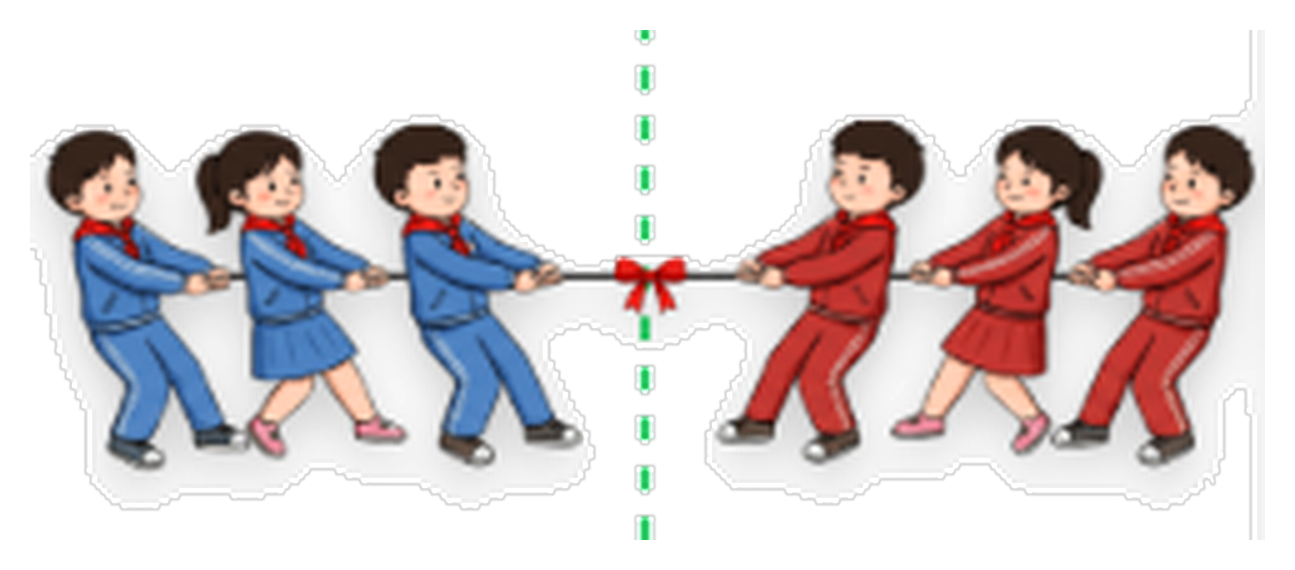
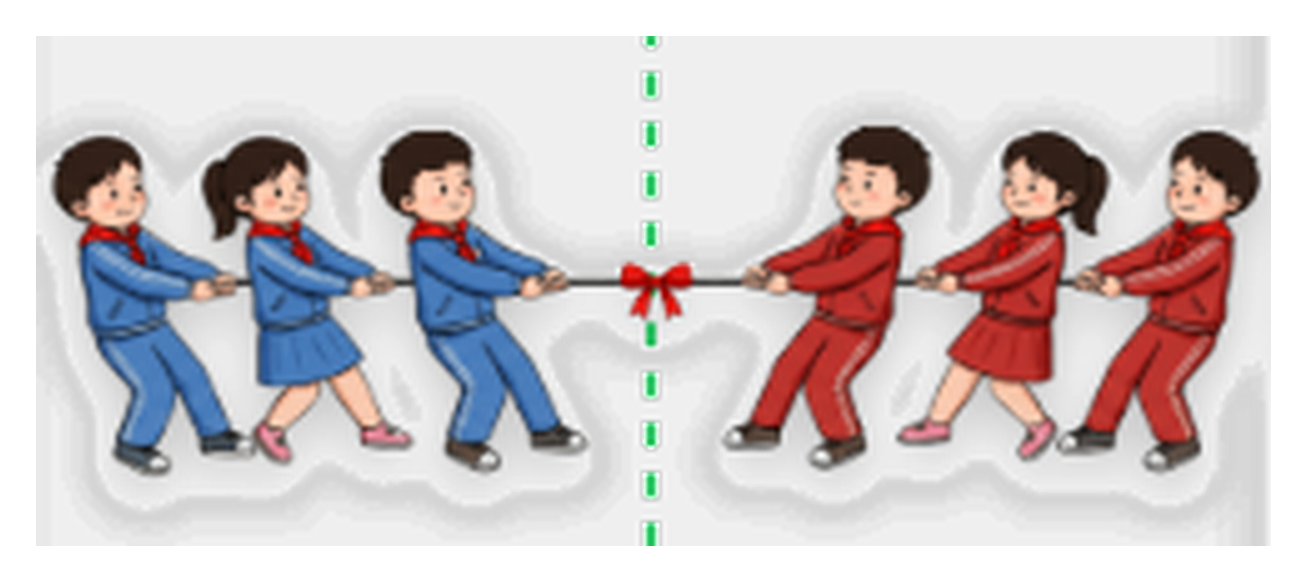
Add files via upload

diff --git a/index.html b/index.html
@@ -3,7 +3,7 @@
 <head>
   <meta charset="utf-8">
   <meta name="viewport" content="width=device-width,initial-scale=1">
-  <title>Lớp học tương tác Toán & Tin V15</title>
+  <title>Lớp học tương tác Toán & Tin V16</title>
   <script src="https://cdn.jsdelivr.net/npm/xlsx@0.18.5/dist/xlsx.full.min.js"></script>
   <script src="https://cdn.jsdelivr.net/npm/three@0.152.2/build/three.min.js"></script>
   <script>window.MathJax={loader:{load:['[tex]/ams']},tex:{inlineMath:[['$','$'],['\\(','\\)']],displayMath:[['$$','$$'],['\\[','\\]']],processEscapes:true,packages:{'[+]':['ams']}},svg:{fontCache:'global'}};</script>
@@ -400,6 +400,31 @@
     @media(max-width:1500px){.wrap{padding:10px}.central-question-body{grid-template-columns:minmax(330px,.95fr) minmax(0,1.55fr)}.central-media{min-height:250px;max-height:340px}.central-media img{max-height:315px}.central-q-copy{min-height:250px}.central-q-text{font-size:clamp(39px,3vw,65px)}.tv-game-grid{grid-template-columns:minmax(330px,1fr) minmax(300px,.68fr) minmax(330px,1fr)}.team-answer-grid .answer{min-height:112px;font-size:clamp(22px,1.5vw,32px)}}
     @media(max-width:1150px){.random-stage{grid-template-columns:1fr}.central-question-body{grid-template-columns:1fr}.central-media{min-height:220px;max-height:none}.tv-game-grid{grid-template-columns:1fr}.team-answer-panel{min-height:auto}.tv-arena,.tv-arena #gameCanvas{min-height:300px;max-height:none}.wheel-presentation #random .random-stage{grid-template-columns:1fr}.wheel-presentation .call-panel{display:none}}
 
+
+
+    /* ===================== V16: TV + ROUND SCORING + QUESTION LIMIT ===================== */
+    body{font-size:17px}
+    .brand b{font-size:27px}.brand small{font-size:14px}.tab,.btn{font-size:16px}.pill{font-size:14px}
+    label{font-size:15px}.input{font-size:16px}.panel-head h3{font-size:23px!important}.panel-hint{font-size:14px}
+    .stat span{font-size:14px}.stat b{font-size:31px}.selected-student{font-size:30px}.score-big{font-size:33px}.scorebook-name{font-size:17px}.scorebook-meta{font-size:13px}
+    .random-stage{grid-template-columns:minmax(0,1fr) 540px}.call-panel{font-size:15px}.quick-score{font-size:15px;padding:10px 5px}
+    .round-score-panel{border-radius:19px;padding:13px;background:linear-gradient(180deg,rgba(21,61,96,.94),rgba(8,31,56,.96));border:1px solid rgba(103,231,255,.24);box-shadow:inset 0 0 0 1px rgba(255,255,255,.025)}
+    .round-score-head{display:flex;align-items:center;justify-content:space-between;gap:8px;margin-bottom:6px}.round-score-head h3{margin:0;font-size:21px}.round-score-help{font-size:13px;color:#c7d9eb;margin-bottom:9px;line-height:1.35}
+    .round-call-list{display:grid;gap:8px;max-height:260px;overflow:auto;padding-right:2px}.round-call-row{display:grid;grid-template-columns:minmax(0,1fr) 84px 62px;gap:7px;align-items:center;padding:9px;border-radius:14px;background:rgba(4,21,40,.75);border:1px solid rgba(255,255,255,.08);transition:.18s}.round-call-row.active{border-color:rgba(255,217,95,.62);box-shadow:0 0 0 2px rgba(255,217,95,.08)}
+    .round-call-name{font-weight:950;font-size:16px;line-height:1.15}.round-call-meta{font-size:12px;color:#bcd0e6;margin-top:3px}.round-call-row .round-score-input{width:100%;padding:9px 6px;text-align:center;border-radius:11px;border:1px solid rgba(255,255,255,.13);background:#071a31;color:#fff;font-size:18px;font-weight:950}.round-call-row .btn{padding:9px 7px;font-size:12px}.round-call-empty{padding:10px;color:#a9bdd3;text-align:center;font-size:13px}
+    .round-call-actions{display:flex;gap:5px;margin-top:5px}.round-call-actions .mini-link{border:0;background:transparent;color:#70e8ff;padding:0;font-weight:900;font-size:12px;cursor:pointer}
+    .game-config-grid{grid-template-columns:repeat(9,minmax(0,1fr))}.cfg-count{grid-column:span 1}.config-hint{font-size:11px;color:#b9cce1;margin-top:4px;line-height:1.25}
+    .game-config-head h2{font-size:29px}.game-config-head .muted{font-size:15px}.game-config-grid label{font-size:14px}.game-config-grid .input{font-size:15px;padding:12px}
+    .central-question-head h2{font-size:32px}.central-q-label{font-size:15px}.central-q-text{font-size:clamp(50px,3.7vw,82px);line-height:1.14}.central-q-foot{font-size:16px}
+    .central-media{min-height:300px;max-height:410px}.central-media img{max-height:385px}.central-q-copy{min-height:300px}
+    .team-answer-name{font-size:30px}.team-answer-help{font-size:15px}.team-status{font-size:13px}.team-answer-grid .answer{min-height:132px;font-size:clamp(28px,1.85vw,42px)}.team-answer-grid .answer .opt-key{font-size:21px;min-width:50px;height:45px}.team-answer-grid .answer .opt-text{min-height:64px}
+    .game-feedback{font-size:21px}.game-bottom-actions .next-question-btn{font-size:25px}.tv-score-name{font-size:21px}.tv-score-number{font-size:42px}.tv-timer b{font-size:42px}
+    .wheel-result .student-name{font-size:clamp(52px,5vw,86px)}
+    .wheel-presentation #random .random-stage{grid-template-columns:minmax(0,1fr) 490px}.wheel-presentation .call-panel{min-width:490px}.wheel-presentation .call-panel-scroll{font-size:15px}
+    .wheel-presentation .wheel-card-full .wheel-wrap{inset:64px 70px 160px}.wheel-presentation .wheel-card-full #wheelCanvas{min-height:calc(100vh - 265px);max-height:calc(100vh - 245px)}.wheel-presentation .wheel-result{bottom:120px}.wheel-presentation .wheel-result .student-name{font-size:clamp(48px,4.7vw,76px)}
+    @media(max-width:1550px){.random-stage{grid-template-columns:minmax(0,1fr) 480px}.game-config-grid{grid-template-columns:repeat(5,1fr)}.cfg-count{grid-column:span 1}.central-q-text{font-size:clamp(44px,3.1vw,70px)}.team-answer-grid .answer{font-size:clamp(24px,1.55vw,34px);min-height:118px}}
+    @media(max-width:1100px){.random-stage{grid-template-columns:1fr}.game-config-grid{grid-template-columns:repeat(2,1fr)}.game-config-grid>div{grid-column:span 1!important}.round-call-list{max-height:220px}.central-q-text{font-size:clamp(34px,5vw,54px)}}
+
 </style>
 </head>
 <body>
@@ -459,6 +484,12 @@
             </div>
             <div class="row" style="margin-top:12px"><button class="btn primary" style="flex:1" onclick="loadStudentsFromSheet()">↻ Nạp danh sách từ Sheet</button><button class="btn ghost" onclick="go('students')">👨🎓 Danh sách</button></div>
             <div id="studentStatus" class="data-status">Chưa nạp dữ liệu.</div>
+          </div>
+
+          <div class="round-score-panel">
+            <div class="round-score-head"><h3>🎯 Học sinh đã gọi trong vòng</h3><span id="roundCallCount" class="pill">0 lượt</span></div>
+            <div class="round-score-help">Một vòng có thể gọi 3–4 học sinh hoặc nhiều hơn. Ghi điểm nhanh ngay tại đây, hoặc chọn “Chi tiết” để thêm ghi chú.</div>
+            <div id="roundCallList" class="round-call-list"><div class="round-call-empty">Chưa có học sinh nào được gọi trong vòng này.</div></div>
           </div>
 
           <div id="scoreSession" class="score-session empty">
@@ -524,6 +555,7 @@
           <div class="cfg-team"><label>Đội A / Đội B</label><div class="row" style="gap:5px"><input id="teamAName" class="input" value="ĐỘI XANH" style="min-width:0"><input id="teamBName" class="input" value="ĐỘI ĐỎ" style="min-width:0"></div></div>
           <div class="cfg-score"><label>Điểm thắng</label><input id="winScore" class="input" type="number" min="1" max="20" value="5"></div>
           <div class="cfg-time"><label>Thời gian / lượt</label><select id="gameTimeLimit" class="input"><option value="0">Không giới hạn</option><option value="10">10 giây</option><option value="15" selected>15 giây</option><option value="20">20 giây</option><option value="30">30 giây</option></select></div>
+          <div class="cfg-count"><label>Số câu chơi</label><input id="gameQuestionCount" class="input" type="number" min="1" max="100" value="10"><div id="gameQuestionCountHint" class="config-hint">Tối đa theo bộ câu đang chọn.</div></div>
         </div>
 
         <div class="game-bank-row">
@@ -584,7 +616,7 @@
       </div>
 
       <div id="qExplain" class="game-feedback">Đội đang trả lời: <strong id="turnLabelInline">ĐỘI XANH</strong></div>
-      <div class="game-bottom-actions"><button class="btn primary next-question-btn" onclick="nextQuestion()">❓ CÂU TIẾP THEO</button><button class="btn good" onclick="manualPoint('A')">+ A</button><button class="btn bad" onclick="manualPoint('B')">+ B</button><button class="btn ghost" onclick="resetGame()">↻ Đặt lại</button></div>
+      <div class="game-bottom-actions"><button id="nextQuestionBtn" class="btn primary next-question-btn" onclick="nextQuestion()">❓ CÂU TIẾP THEO</button><button class="btn good" onclick="manualPoint('A')">+ A</button><button class="btn bad" onclick="manualPoint('B')">+ B</button><button class="btn ghost" onclick="resetGame()">↻ Đặt lại</button></div>
     </div>
   </section>
 
@@ -626,7 +658,7 @@ const API_PROXY_URL = '/api/sheet';</code>
 // Nếu Deploy lại và Google cấp URL mới, chỉ thay đúng chuỗi nằm trong dấu nháy.
 // KHÔNG cần dán URL ở bất kỳ chỗ nào khác trong file index.html.
 // ============================================================================
-const APPS_SCRIPT_URL = 'https://script.google.com/macros/s/AKfycbwHqueppd3plRXenPw9em80EG3VjcTxf3ekcs45CfmFDcLGJs_mD7OTz_6MYv7dvag1/exec';
+const APPS_SCRIPT_URL = 'https://script.google.com/macros/s/AKfycbwuo8HxCrO1yWcUwXtdqRxMlfkHb_XNh6LWi5JjlUb9EkUKEOtBnZrnmhJKsRJDaGTC/exec';
 
 // V6: trình duyệt chỉ gọi API cùng domain Vercel. File api/sheet.js sẽ gọi Apps Script.
 const API_PROXY_URL = '/api/sheet';
@@ -636,13 +668,13 @@ const API_PROXY_URL = '/api/sheet';
 
 const $=s=>document.querySelector(s), $$=s=>[...document.querySelectorAll(s)];
 const LS={students:'class3d_v70_students',history:'class3d_v70_history',scores:'class3d_v70_scores',bank:'class3d_v70_bank',className:'class3d_v70_class',selection:'class3d_v70_selection'};
-const APP_VERSION='15.0.0';
+const APP_VERSION='16.0.0';
 let students=safeLoad(LS.students,[]).map(normalizeStudent).filter(s=>s.name);
 let historyData=safeLoad(LS.history,[]);
 let scoresData=safeLoad(LS.scores,[]);
 let questionBank=safeLoad(LS.bank,[]).map((q,i)=>normalizeQuestion(q,i,q.sourceFile||'')).filter(validQuestion);
 let selectedQuestions=[];
-let currentStudent=null,calledIds=new Set(),loadingStudents=false;
+let currentStudent=null,currentCallNo=0,roundCalls=[],calledIds=new Set(),loadingStudents=false;
 let game={type:null,a:0,b:0,turn:'A',used:[],current:null,locked:false};
 let game3d=null,wheel3d=null,wheelAudio=null;
 
@@ -678,7 +710,7 @@ function normalizeStudent(s,i=0){return{id:String(s?.id??i+1).trim(),stt:Number(
 function currentClass(){return $('#classSelect')?.value||localStorage.getItem(LS.className)||''}
 function classes(){return[...new Set(students.map(s=>s.className).filter(Boolean))].sort((a,b)=>a.localeCompare(b,'vi',{numeric:true}))}
 function populateClasses(preferred=''){const sel=$('#classSelect'),list=classes();const old=preferred||localStorage.getItem(LS.className)||sel.value;sel.innerHTML=list.length?list.map(x=>`<option value="${esc(x)}">${esc(x)}</option>`).join(''):'<option value="">Chưa có lớp</option>';if(list.includes(old))sel.value=old;else if(list[0])sel.value=list[0];localStorage.setItem(LS.className,sel.value||'')}
-$('#classSelect').addEventListener('change',()=>{localStorage.setItem(LS.className,currentClass());calledIds.clear();currentStudent=null;renderAll();rebuildWheel();});
+$('#classSelect').addEventListener('change',()=>{localStorage.setItem(LS.className,currentClass());calledIds.clear();roundCalls=[];currentStudent=null;currentCallNo=0;renderAll();rebuildWheel();});
 $('#noRepeat').addEventListener('change',()=>rebuildWheel());$('#fairMode').addEventListener('change',()=>rebuildWheel());
 function classStudents(activeOnly=true){const c=currentClass();return students.filter(s=>(!c||s.className===c)&&(!activeOnly||s.active!==false))}
 
@@ -686,7 +718,7 @@ function renderAll(){populateClasses(currentClass());const list=classStudents(tr
   $('#studentBody').innerHTML=students.map(s=>`<tr><td>${s.stt}</td><td><b>${esc(s.name)}</b></td><td>${esc(s.className)}</td><td>${s.totalPoint}</td><td>${s.callCount}</td></tr>`).join('');
   $('#historyBody').innerHTML=historyData.slice().reverse().slice(0,700).map(h=>`<tr><td>${fmtTime(h.timestamp)}</td><td>${esc(h.className)}</td><td><b>${esc(h.studentName)}</b></td><td>${esc(h.action)}</td><td>${esc(h.value)}</td><td>${esc(h.note)}</td></tr>`).join('');
   setStudentStatus(list.length?`Đã nạp ${list.length} học sinh lớp ${currentClass()||'(chưa chọn)'}.`:'Chưa có học sinh phù hợp lớp đang chọn.',!!list.length);
-  renderSelectedStudent();renderClassScorebook();renderBank();
+  renderSelectedStudent();renderRoundCalls();renderClassScorebook();renderBank();
 }
 function setStudentStatus(msg,ok=false){const el=$('#studentStatus');el.textContent=msg;el.className='data-status '+(ok?'ok':'')}
 
@@ -710,7 +742,9 @@ async function callRandomStudent(){
     $('#studentName').textContent=currentStudent.name;
     calledIds.add(String(currentStudent.id));
     currentStudent.callCount=Number(currentStudent.callCount||0)+1;
+    currentCallNo=currentStudent.callCount;
     currentStudent.lastCalled=new Date().toISOString();
+    addRoundCall(currentStudent,currentCallNo,'Vòng quay');
     addHistory({action:'CALL',value:'',note:'Gọi bằng Chiếc nón 3D'});
     saveLocal();renderAll();
     $('#wheelSub').textContent=`🎉 Lần gọi thứ ${currentStudent.callCount} • ${currentStudent.className}`;
@@ -719,7 +753,7 @@ async function callRandomStudent(){
   finally{btn.disabled=false;btn.classList.remove('spinning')}
 }
 
-function resetRound(){calledIds.clear();currentStudent=null;$('#studentName').textContent='SẴN SÀNG QUAY?';$('#wheelSub').textContent='Nhấn QUAY NÓN để chọn học sinh ngẫu nhiên';renderAll();rebuildWheel();toast('Đã bắt đầu vòng mới.')}
+function resetRound(){calledIds.clear();roundCalls=[];currentStudent=null;currentCallNo=0;$('#studentName').textContent='SẴN SÀNG QUAY?';$('#wheelSub').textContent='Nhấn QUAY NÓN để chọn học sinh ngẫu nhiên';renderAll();rebuildWheel();toast('Đã bắt đầu vòng mới. Danh sách học sinh của vòng trước đã được làm mới.')}
 function changePoint(v){if(!currentStudent)return toast('Chưa gọi học sinh.');const note=prompt(v>0?'Ghi chú điểm cộng:':'Ghi chú điểm trừ:','')||'';currentStudent.totalPoint+=v;addHistory({action:v>0?'PLUS':'MINUS',value:v,note});saveLocal();renderAll();beep(v>0?760:230,.13)}
 function setQuickScore(v){$('#callScoreInput').value=v;$('#callScoreInput').focus()}
 function scoresForStudent(student){if(!student)return[];return scoresData.filter(x=>String(x.studentId||'')===String(student.id)||(!x.studentId&&x.studentName===student.name&&x.className===student.className)).slice().sort((a,b)=>new Date(b.timestamp)-new Date(a.timestamp))}
@@ -727,10 +761,44 @@ function currentStudentScores(){return scoresForStudent(currentStudent)}
 function renderSelectedStudent(){
   const box=$('#scoreSession');if(!box)return;
   if(!currentStudent){box.classList.add('empty');$('#selectedStudentName').textContent='Chưa có học sinh';$('#selectedStudentClass').textContent='—';$('#selectedTotalPoint').textContent='Điểm +/-: 0';$('#callNoBadge').textContent='Chưa gọi';$('#saveCallScoreBtn').disabled=true;$('#studentScoreHistory').innerHTML='<div class="score-empty">Điểm từng lần gọi sẽ hiện ở đây.</div>';return}
-  box.classList.remove('empty');$('#selectedStudentName').textContent=currentStudent.name;$('#selectedStudentClass').textContent=`Lớp ${currentStudent.className}`;$('#selectedTotalPoint').textContent=`Điểm +/-: ${currentStudent.totalPoint}`;$('#callNoBadge').textContent=`Lần gọi #${currentStudent.callCount}`;$('#saveCallScoreBtn').disabled=false;
+  box.classList.remove('empty');$('#selectedStudentName').textContent=currentStudent.name;$('#selectedStudentClass').textContent=`Lớp ${currentStudent.className}`;$('#selectedTotalPoint').textContent=`Điểm +/-: ${currentStudent.totalPoint}`;$('#callNoBadge').textContent=`Lần gọi #${currentCallNo||currentStudent.callCount}`;$('#saveCallScoreBtn').disabled=false;
   const arr=currentStudentScores();$('#studentScoreHistory').innerHTML=arr.length?arr.slice(0,8).map((x,i)=>`<div class="score-record"><span>${x.callNo?`Lần ${esc(x.callNo)}`:`#${arr.length-i}`}</span><span>${esc(x.note||'')}</span><strong>${esc(x.score)}</strong></div>`).join(''):'<div class="score-empty">Chưa có điểm chính thức cho học sinh này.</div>';
-  const same=arr.find(x=>Number(x.callNo)===Number(currentStudent.callCount));if(same){$('#callScoreInput').value=same.score;$('#callScoreNote').value=same.note||''}else{$('#callScoreInput').value='';$('#callScoreNote').value=''}
+  const same=arr.find(x=>Number(x.callNo)===Number(currentCallNo||currentStudent.callCount));if(same){$('#callScoreInput').value=same.score;$('#callScoreNote').value=same.note||''}else{$('#callScoreInput').value='';$('#callScoreNote').value=''}
 }
+
+function addRoundCall(student,callNo,source='Vòng quay'){
+  if(!student||!callNo)return;
+  const key=`${student.id}:${callNo}`;
+  if(roundCalls.some(x=>x.key===key))return;
+  roundCalls.push({key,studentId:String(student.id),studentName:student.name,className:student.className,callNo:Number(callNo),source,createdAt:new Date().toISOString()});
+}
+function scoreForCall(studentId,callNo){return scoresData.find(x=>String(x.studentId||'')===String(studentId)&&Number(x.callNo||0)===Number(callNo))||null}
+function renderRoundCalls(){
+  const host=$('#roundCallList'),count=$('#roundCallCount');if(!host||!count)return;
+  count.textContent=`${roundCalls.length} lượt`;
+  if(!roundCalls.length){host.innerHTML='<div class="round-call-empty">Chưa có học sinh nào được gọi trong vòng này.</div>';return}
+  host.innerHTML=roundCalls.slice().reverse().map((r,idx)=>{
+    const s=students.find(x=>String(x.id)===String(r.studentId));const saved=scoreForCall(r.studentId,r.callNo);
+    const active=currentStudent&&String(currentStudent.id)===String(r.studentId)&&Number(currentCallNo)===Number(r.callNo)?' active':'';
+    return `<div class="round-call-row${active}" data-key="${esc(r.key)}"><div><div class="round-call-name">${esc(s?.stt||'•')}. ${esc(r.studentName)}</div><div class="round-call-meta">Lần gọi #${esc(r.callNo)} • ${esc(r.source)}${saved?` • Đã lưu: ${esc(saved.score)} điểm`:''}</div><div class="round-call-actions"><button class="mini-link round-detail" data-id="${esc(r.studentId)}" data-call="${esc(r.callNo)}">Chi tiết / ghi chú</button></div></div><input class="round-score-input" data-key="${esc(r.key)}" type="number" min="0" max="10" step="0.25" placeholder="Điểm" value="${saved?esc(saved.score):''}"><button class="btn gold round-save" data-id="${esc(r.studentId)}" data-call="${esc(r.callNo)}" data-key="${esc(r.key)}">💾 Lưu</button></div>`
+  }).join('');
+  $$('#roundCallList .round-detail').forEach(b=>b.onclick=()=>selectRoundCall(b.dataset.id,Number(b.dataset.call)));
+  $$('#roundCallList .round-save').forEach(b=>b.onclick=()=>saveRoundQuickScore(b.dataset.id,Number(b.dataset.call),b.dataset.key));
+}
+function selectRoundCall(studentId,callNo){
+  const s=students.find(x=>String(x.id)===String(studentId));if(!s)return toast('Không tìm thấy học sinh.');
+  currentStudent=s;currentCallNo=Number(callNo)||Number(s.callCount||1);$('#studentName').textContent=s.name;$('#wheelSub').textContent=`📝 Đang chấm ${s.name} • Lần gọi #${currentCallNo}`;renderSelectedStudent();renderRoundCalls();renderClassScorebook();
+}
+async function saveRoundQuickScore(studentId,callNo,key){
+  const s=students.find(x=>String(x.id)===String(studentId));if(!s)return toast('Không tìm thấy học sinh.');
+  const input=$(`#roundCallList .round-score-input[data-key="${CSS.escape(key)}"]`);const score=Number(String(input?.value||'').replace(',','.'));
+  if(!Number.isFinite(score)||score<0||score>10)return toast('Điểm phải từ 0 đến 10.');
+  const old=scoreForCall(studentId,callNo);const entry={timestamp:new Date().toISOString(),className:s.className,studentId:s.id,studentName:s.name,callNo:Number(callNo),score,note:old?.note||'Điểm vòng quay'};
+  const pos=scoresData.findIndex(x=>String(x.studentId||'')===String(entry.studentId)&&Number(x.callNo||0)===entry.callNo);if(pos>=0)scoresData[pos]={...scoresData[pos],...entry};else scoresData.push(entry);
+  historyData.push({...entry,action:'SCORE',value:score});saveLocal();renderAll();
+  const ok=await apiPost({action:'saveScore',entry});toast(ok?`Đã lưu ${score} điểm cho ${s.name} – lần ${callNo}.`:'Đã lưu tạm trên máy nhưng chưa ghi được lên Sheet.');if(ok)beep(920,.16)
+}
+
 function renderClassScorebook(){
   const host=$('#classScorebookList');if(!host)return;
   const q=String($('#scorebookSearch')?.value||'').trim().toLocaleLowerCase('vi');
@@ -746,7 +814,8 @@ function renderClassScorebook(){
 }
 function manualCallStudent(id){
   const s=classStudents(true).find(x=>String(x.id)===String(id));if(!s)return toast('Không tìm thấy học sinh.');
-  currentStudent=s;calledIds.add(String(s.id));s.callCount=Number(s.callCount||0)+1;s.lastCalled=new Date().toISOString();
+  currentStudent=s;calledIds.add(String(s.id));s.callCount=Number(s.callCount||0)+1;currentCallNo=s.callCount;s.lastCalled=new Date().toISOString();
+  addRoundCall(s,currentCallNo,'Gọi thủ công');
   $('#studentName').textContent=s.name;$('#wheelSub').textContent=`👋 Gọi thủ công • Lần ${s.callCount} • ${s.className}`;
   addHistory({action:'CALL',value:'',note:'Gọi thủ công từ sổ điểm'});saveLocal();renderAll();if($('#noRepeat').checked)rebuildWheel();
   if(document.body.classList.contains('wheel-presentation'))$('#callPanel').classList.add('open');
@@ -758,7 +827,7 @@ async function saveCallScore(){
   const raw=$('#callScoreInput').value;const score=Number(String(raw).replace(',','.'));
   if(!Number.isFinite(score)||score<0||score>10)return toast('Điểm phải từ 0 đến 10.');
   const note=$('#callScoreNote').value.trim()||'Dò bài';
-  const entry={...entryBase(),callNo:Number(currentStudent.callCount||1),score,note};
+  const entry={...entryBase(),callNo:Number(currentCallNo||currentStudent.callCount||1),score,note};
   const key=x=>String(x.studentId||'')===String(entry.studentId)&&Number(x.callNo||0)===entry.callNo;
   const pos=scoresData.findIndex(key);if(pos>=0)scoresData[pos]={...scoresData[pos],...entry};else scoresData.push(entry);
   historyData.push({...entry,action:'SCORE',value:score});saveLocal();renderAll();
@@ -839,7 +908,7 @@ async function loadStudentsFromSheet(silent=false){
   try{
     const d=await apiGet('students');
     students=(d.students||[]).map(normalizeStudent).filter(s=>s.name);
-    saveLocal();populateClasses();calledIds.clear();currentStudent=null;
+    saveLocal();populateClasses();calledIds.clear();roundCalls=[];currentStudent=null;currentCallNo=0;
     $('#studentName').textContent='SẴN SÀNG QUAY?';$('#wheelSub').textContent='Nhấn QUAY NÓN để chọn học sinh ngẫu nhiên';renderAll();rebuildWheel();
     if(!silent)toast(`Đã nạp ${students.length} học sinh từ Sheet.`);return true
   }catch(err){setStudentStatus(err.message,false);if(!silent)toast(err.message);return false}
@@ -888,8 +957,17 @@ function applyQuestionSelection(save=true){
   renderBank();renderAllStatsOnly()
 }
 function renderAllStatsOnly(){$('#statQuestions').textContent=selectedQuestions.length}
+function syncGameQuestionCount(){
+  const input=$('#gameQuestionCount'),hint=$('#gameQuestionCountHint');if(!input)return;
+  const max=Math.max(0,selectedQuestions.length);
+  if(!max){input.max=100;if(hint)hint.textContent='Chưa có câu hỏi phù hợp.';return}
+  input.max=max;let val=Number(input.value||10);if(!Number.isFinite(val)||val<1)val=Math.min(10,max);if(val>max)val=max;input.value=Math.max(1,val);
+  if(hint)hint.textContent=`Chọn 1–${max} câu trong bộ hiện tại.`;
+}
+function gameQuestionLimit(){const max=selectedQuestions.length;if(!max)return 0;return Math.max(1,Math.min(max,Number($('#gameQuestionCount')?.value||max)||max))}
+
 function renderBank(){
-  if(!$('#bankSummary'))return;
+  if(!$('#bankSummary'))return;syncGameQuestionCount();
   const s=$('#subjectSelect')?.value||'',g=$('#gradeSelect')?.value||'',c=$('#chapterSelect')?.value||'',t=$('#topicSelect')?.value||'';
   $('#gameBankBadge').textContent=`${selectedQuestions.length} câu`;
   $('#bankSummary').innerHTML=questionBank.length?`<b>${selectedQuestions.length}</b> câu đang chọn / <b>${questionBank.length}</b> câu đã lưu <span class="muted">• ${[s,g&&'Khối '+g,c,t].filter(Boolean).map(esc).join(' → ')||'Toàn bộ ngân hàng'}</span>`:'Chưa có câu hỏi. Nạp JSON hoặc tải từ Sheet.';
@@ -900,6 +978,7 @@ $('#subjectSelect')?.addEventListener('change',()=>refreshQuestionFilters({subje
 $('#gradeSelect').addEventListener('change',()=>refreshQuestionFilters({subject:$('#subjectSelect')?.value||'',grade:$('#gradeSelect').value,chapter:'',topic:''}));
 $('#chapterSelect').addEventListener('change',()=>{const s=$('#subjectSelect')?.value||'',g=$('#gradeSelect').value,c=$('#chapterSelect').value;const by=questionBank.filter(q=>(!s||q.subject===s)&&(!g||q.grade===g)&&(!c||q.chapter===c));fillSelect($('#topicSelect'),by.map(q=>q.topic),'Tất cả bài','');applyQuestionSelection(true)});
 $('#topicSelect').addEventListener('change',()=>applyQuestionSelection(true));
+$('#gameQuestionCount')?.addEventListener('change',syncGameQuestionCount);
 $('#jsonFile').addEventListener('change',async e=>{const f=e.target.files?.[0];if(!f)return;try{const data=JSON.parse(await f.text());const rows=Array.isArray(data)?data:(Array.isArray(data.questions)?data.questions:[]);const imported=rows.map((q,i)=>normalizeQuestion(q,i,f.name)).filter(validQuestion);if(!imported.length)throw new Error('Không tìm thấy câu hỏi hợp lệ.');mergeQuestions(imported);const first=imported[0];refreshQuestionFilters({subject:first.subject,grade:first.grade,chapter:first.chapter,topic:first.topic});if(getApi()){await saveQuestionChunks(imported);await wait(800)}renderAll();toast(`Đã nạp ${imported.length} câu từ ${f.name}.`)}catch(err){toast('JSON lỗi: '+err.message)}finally{e.target.value=''}});
 async function saveQuestionChunks(items){for(let i=0;i<items.length;i+=40){const ok=await apiPost({action:'saveQuestions',questions:items.slice(i,i+40)});if(!ok)throw new Error('Không gửi được QuestionBank.');await wait(180)}}
 async function syncQuestionBank(){if(!questionBank.length)return toast('Chưa có câu hỏi.');try{await saveQuestionChunks(questionBank);toast(`Đã gửi ${questionBank.length} câu hỏi lên Sheet.`)}catch(err){toast(err.message)}}
@@ -929,14 +1008,14 @@ function startGame(type){
   if(!selectedQuestions.length)return toast('Chưa có câu hỏi phù hợp Môn / Khối / Chương / Bài.');
   if(typeof THREE==='undefined')return toast('Không tải được thư viện 3D. Kiểm tra Internet rồi tải lại trang.');
   stopGameTimer();
-  game={type,a:0,b:0,turn:'A',starter:null,responder:null,attempted:{A:false,B:false},used:[],current:null,locked:false,timeLeft:0,timer:null,lastChoice:null,revealedCorrect:null};
+  game={type,a:0,b:0,turn:'A',starter:null,responder:null,attempted:{A:false,B:false},used:[],current:null,locked:false,timeLeft:0,timer:null,lastChoice:null,revealedCorrect:null,maxQuestions:gameQuestionLimit(),finished:false};
   $('#gameHub').classList.add('hide');$('#gamePlay').classList.remove('hide');$('#winner').classList.remove('show');
   const tug=type==='tug';
   $('#gameTitle').textContent=tug?'KÉO CO 3D':'ĐUA XE 3D';
   $('#gameTitleHead').textContent=tug?'🪢 KÉO CO KIẾN THỨC':'🏎 ĐUA XE KIẾN THỨC';
   $('#arenaCaption').textContent=tug?'Đúng → cờ dịch chuyển về phía đội ghi điểm':'Đúng → xe tăng tốc về phía đích';
   updateHud(false);setTurn('A');game3d?.dispose();game3d=new Game3D($('#gameCanvas'),type);game3d.setProgress(0,0,winScore());
-  setTimeout(()=>{game3d.resize();nextQuestion()},220)
+  setTimeout(()=>{game3d.resize();updateNextQuestionButton();nextQuestion()},220)
 }
 function exitGame(){stopGameTimer();game3d?.dispose();game3d=null;$('#gamePlay').classList.add('hide');$('#gameHub').classList.remove('hide');$('#winner').classList.remove('show');document.body.classList.remove('game-presentation')}
 function winScore(){return Math.max(1,Math.min(20,Number($('#winScore').value||5)))}
@@ -995,7 +1074,7 @@ function syncTeamPanels(){
 }
 function renderDuelQuestion(){
   if(!game.current)return;const q=game.current,imgs=questionImageUrls(q);
-  $('#qCounter').textContent=`Câu ${game.used.length}/${selectedQuestions.length}`;$('#qMeta').textContent=[q.subject,q.grade&&'Khối '+q.grade,q.chapter,q.topic,q.level].filter(Boolean).join(' • ')||'Câu hỏi luyện tập';
+  $('#qCounter').textContent=`Câu ${game.used.length}/${game.maxQuestions||gameQuestionLimit()}`;$('#qMeta').textContent=[q.subject,q.grade&&'Khối '+q.grade,q.chapter,q.topic,q.level].filter(Boolean).join(' • ')||'Câu hỏi luyện tập';
   $('#qCentralText').innerHTML=renderQuestionOnlyText(q.question||'');fitQuestionTypography(q);
   const media=$('#qCentralMedia'),body=$('#centralQuestionBody');
   if(imgs.length){media.innerHTML=centralQuestionMedia(q);media.classList.remove('hide');body.classList.remove('no-image')}else{media.innerHTML='';media.classList.add('hide');body.classList.add('no-image')}
@@ -1013,13 +1092,29 @@ function startGameTimer(){
 }
 function timeOutCurrentTeam(){
   if(game.locked||!game.current)return;const correct=correctIndex(game.current);
-  if(game.responder===null){game.locked=true;if(correct>=0){game.revealedCorrect=correct;revealCorrect(correct);}syncTeamPanels();$('#qExplain').innerHTML=`⏱ Hết thời gian. <strong>Đáp án: ${esc(game.current.options[correct]?.key||'')}</strong>. ${renderRich(game.current.explanation||'')}`;showAnswerBanner('bad',`<span class="emoji">⏱</span> Hết thời gian`);typeset($('#gamePlay'));return}
+  if(game.responder===null){game.locked=true;if(correct>=0){game.revealedCorrect=correct;revealCorrect(correct);}syncTeamPanels();$('#qExplain').innerHTML=`⏱ Hết thời gian. <strong>Đáp án: ${esc(game.current.options[correct]?.key||'')}</strong>. ${renderRich(game.current.explanation||'')}`;showAnswerBanner('bad',`<span class="emoji">⏱</span> Hết thời gian`);typeset($('#gamePlay'));updateNextQuestionButton();return}
   const team=game.responder,other=team==='A'?'B':'A';game.attempted[team]=true;beep(210,.18);game3d?.wrong();
   if(!game.attempted[other]){showAnswerBanner('bad',`<span class="emoji">⏱</span> ${esc(names()[team])} hết thời gian`);setRespondingTeam(other,`⏱ <strong>${esc(names()[team])}</strong> hết thời gian. Chỉ còn <strong>${esc(names()[other])}</strong> được quyền trả lời.`);}
-  else{game.locked=true;if(correct>=0){game.revealedCorrect=correct;revealCorrect(correct);}syncTeamPanels();$('#qExplain').innerHTML=`⏱ Cả hai đội đã hết lượt. <strong>Đáp án: ${esc(game.current.options[correct]?.key||'')}</strong>. ${renderRich(game.current.explanation||'')}`;showAnswerBanner('bad',`<span class="emoji">⏱</span> Cả hai đội đã hết lượt`);typeset($('#gamePlay'))}
+  else{game.locked=true;if(correct>=0){game.revealedCorrect=correct;revealCorrect(correct);}syncTeamPanels();$('#qExplain').innerHTML=`⏱ Cả hai đội đã hết lượt. <strong>Đáp án: ${esc(game.current.options[correct]?.key||'')}</strong>. ${renderRich(game.current.explanation||'')}`;showAnswerBanner('bad',`<span class="emoji">⏱</span> Cả hai đội đã hết lượt`);typeset($('#gamePlay'));updateNextQuestionButton()}
+}
+function updateNextQuestionButton(){
+  const b=$('#nextQuestionBtn');if(!b)return;const limit=game.maxQuestions||gameQuestionLimit();b.textContent=game.used.length>=limit?'🏁 KẾT THÚC & XEM KẾT QUẢ':'❓ CÂU TIẾP THEO';
+}
+function finishQuestionSet(){
+  if(game.finished)return;game.finished=true;game.locked=true;stopGameTimer();const n=names();let text='';
+  if(game.a>game.b){text=`${n.A} CHIẾN THẮNG ${game.a} - ${game.b}!`;game3d?.celebrate('A')}
+  else if(game.b>game.a){text=`${n.B} CHIẾN THẮNG ${game.b} - ${game.a}!`;game3d?.celebrate('B')}
+  else{text=`HÒA ${game.a} - ${game.b} • HOÀN THÀNH ${game.used.length} CÂU`}
+  $('#winnerText').textContent=text;$('#winner').classList.add('show');showAnswerBanner('good',`<span class="emoji">🏁</span> Hoàn thành ${game.used.length}/${game.maxQuestions} câu`);beep(1040,.28)
 }
 function nextQuestion(){
-  if(!selectedQuestions.length)return toast('Chưa có câu hỏi đang chọn.');stopGameTimer();game.locked=false;let available=selectedQuestions.map((_,i)=>i).filter(i=>!game.used.includes(i));if(!available.length){game.used=[];available=selectedQuestions.map((_,i)=>i)}const idx=available[Math.floor(Math.random()*available.length)];game.used.push(idx);game.current=selectedQuestions[idx];game.starter=null;game.responder=null;game.attempted={A:false,B:false};game.lastChoice=null;game.revealedCorrect=null;renderDuelQuestion()
+  if(!selectedQuestions.length)return toast('Chưa có câu hỏi đang chọn.');
+  if(!game.maxQuestions)game.maxQuestions=gameQuestionLimit();
+  if(game.used.length>=game.maxQuestions)return finishQuestionSet();
+  stopGameTimer();game.locked=false;game.finished=false;
+  const available=selectedQuestions.map((_,i)=>i).filter(i=>!game.used.includes(i));
+  if(!available.length)return finishQuestionSet();
+  const idx=available[Math.floor(Math.random()*available.length)];game.used.push(idx);game.current=selectedQuestions[idx];game.starter=null;game.responder=null;game.attempted={A:false,B:false};game.lastChoice=null;game.revealedCorrect=null;renderDuelQuestion();updateNextQuestionButton()
 }
 function answerQuestion(team,i){
   if(game.locked||!game.current||!teamCanAnswer(team))return;stopGameTimer();const q=game.current,correct=correctIndex(q);if(correct<0){$('#qExplain').textContent='Không xác định được CorrectAnswer trong JSON.';game3d?.wrong();return}
@@ -1028,21 +1123,21 @@ function answerQuestion(team,i){
   game.attempted[team]=true;
   const isCorrect=i===correct;game.lastChoice={team,i,correct:isCorrect};
   if(isCorrect){
-    game.locked=true;game.revealedCorrect=correct;markChoice(team,i,'correct');award(team,true);revealCorrect(correct);syncTeamPanels();showAnswerBanner('good',`<span class="emoji">✅</span> ${esc(names()[team])} trả lời đúng! +1 điểm`);$('#qExplain').innerHTML=`✅ <strong>${esc(names()[team])}</strong> trả lời chính xác — <strong>+1 điểm</strong>. Tỉ số: <strong>${game.a} - ${game.b}</strong>. ${renderRich(q.explanation||'')}`;beep(880,.18);typeset($('#gamePlay'))
+    game.locked=true;game.revealedCorrect=correct;markChoice(team,i,'correct');award(team,true);revealCorrect(correct);syncTeamPanels();showAnswerBanner('good',`<span class="emoji">✅</span> ${esc(names()[team])} trả lời đúng! +1 điểm`);$('#qExplain').innerHTML=`✅ <strong>${esc(names()[team])}</strong> trả lời chính xác — <strong>+1 điểm</strong>. Tỉ số: <strong>${game.a} - ${game.b}</strong>. ${renderRich(q.explanation||'')}`;beep(880,.18);typeset($('#gamePlay'));updateNextQuestionButton()
   }else{
     markChoice(team,i,'wrong');game3d?.wrong();beep(210,.18);const other=team==='A'?'B':'A';
     if(!game.attempted[other]){game.responder=other;syncTeamPanels();showAnswerBanner('bad',`<span class="emoji">❌</span> ${esc(names()[team])} trả lời sai`);$('#qExplain').innerHTML=`❌ <strong>${esc(names()[team])}</strong> trả lời sai và đã mất lượt. Chỉ còn <strong>${esc(names()[other])}</strong> được quyền trả lời.`;startGameTimer()}
-    else{game.locked=true;game.revealedCorrect=correct;revealCorrect(correct);syncTeamPanels();showAnswerBanner('bad',`<span class="emoji">❌</span> Cả hai đội đều sai`);$('#qExplain').innerHTML=`❌ Cả hai đội đều chưa đúng. <strong>Đáp án: ${esc(q.options[correct]?.key||'')}</strong>. ${renderRich(q.explanation||'')}`;typeset($('#gamePlay'))}
+    else{game.locked=true;game.revealedCorrect=correct;revealCorrect(correct);syncTeamPanels();showAnswerBanner('bad',`<span class="emoji">❌</span> Cả hai đội đều sai`);$('#qExplain').innerHTML=`❌ Cả hai đội đều chưa đúng. <strong>Đáp án: ${esc(q.options[correct]?.key||'')}</strong>. ${renderRich(q.explanation||'')}`;typeset($('#gamePlay'));updateNextQuestionButton()}
   }
 }
 function award(team,fromAnswer=false){
   if(game.a>=winScore()||game.b>=winScore())return;
   if(team==='A')game.a=Number(game.a||0)+1;else game.b=Number(game.b||0)+1;
   updateHud(true,team);game3d?.score(team,game.a,game.b,winScore());
-  if(game.a>=winScore()||game.b>=winScore()){const winner=game.a>=winScore()?'A':'B';game.locked=true;stopGameTimer();game3d?.celebrate(winner);$('#winnerText').textContent=names()[winner]+' CHIẾN THẮNG!';setTimeout(()=>$('#winner').classList.add('show'),650);beep(1040,.35)}
+  if(game.a>=winScore()||game.b>=winScore()){const winner=game.a>=winScore()?'A':'B';game.locked=true;game.finished=true;stopGameTimer();game3d?.celebrate(winner);$('#winnerText').textContent=names()[winner]+' CHIẾN THẮNG!';setTimeout(()=>$('#winner').classList.add('show'),650);beep(1040,.35)}
 }
 function manualPoint(t){award(t,false);syncTeamPanels();$('#qExplain').innerHTML=`➕ Giáo viên cộng thủ công <strong>1 điểm</strong> cho <strong>${esc(names()[t])}</strong>. Tỉ số: <strong>${game.a} - ${game.b}</strong>.`;typeset($('#gamePlay'))}
-function resetGame(){stopGameTimer();game.a=0;game.b=0;game.used=[];game.current=null;game.locked=false;game.turn='A';game.starter=null;game.responder=null;game.attempted={A:false,B:false};game.lastChoice=null;game.revealedCorrect=null;$('#winner').classList.remove('show');$('#answerBanner')?.classList.remove('show');updateHud(false);setTurn('A');game3d?.setProgress(0,0,winScore());nextQuestion()}
+function resetGame(){stopGameTimer();game.a=0;game.b=0;game.used=[];game.current=null;game.locked=false;game.finished=false;game.maxQuestions=gameQuestionLimit();game.turn='A';game.starter=null;game.responder=null;game.attempted={A:false,B:false};game.lastChoice=null;game.revealedCorrect=null;$('#winner').classList.remove('show');$('#answerBanner')?.classList.remove('show');updateHud(false);setTurn('A');game3d?.setProgress(0,0,winScore());updateNextQuestionButton();nextQuestion()}
 
 
 class WheelAudio{

diff --git a/api/sheet.js b/api/sheet.js
@@ -1,4 +1,4 @@
-const APPS_SCRIPT_URL = 'https://script.google.com/macros/s/AKfycbwHqueppd3plRXenPw9em80EG3VjcTxf3ekcs45CfmFDcLGJs_mD7OTz_6MYv7dvag1/exec';
+const APPS_SCRIPT_URL = 'https://script.google.com/macros/s/AKfycbwuo8HxCrO1yWcUwXtdqRxMlfkHb_XNh6LWi5JjlUb9EkUKEOtBnZrnmhJKsRJDaGTC/exec';
 
 export default async function handler(req, res) {
   try {

diff --git a/README.md b/README.md
@@ -1,6 +1,6 @@
-# LỚP HỌC TƯƠNG TÁC TOÁN & TIN V15
+# LỚP HỌC TƯƠNG TÁC TOÁN & TIN V16
 
-Bản V15 là bản gom hoàn chỉnh để triển khai lên GitHub/Vercel.
+Bản V16 là bản gom hoàn chỉnh để triển khai lên GitHub/Vercel.
 
 ## Cấu trúc
 - `index.html`: giao diện gọi tên + ghi điểm + trò chơi.
@@ -8,7 +8,7 @@ Bản V15 là bản gom hoàn chỉnh để triển khai lên GitHub/Vercel.
 - `api/sheet.js`: proxy Vercel kết nối Apps Script.
 - `assets/`: hình kéo co đã làm rõ từ ảnh người dùng cung cấp.
 
-## V15 nổi bật
+## V16 nổi bật
 - Gọi tên 3D, ghi điểm theo từng lần gọi, sổ điểm cả lớp.
 - Chế độ trình chiếu vòng quay thu nhỏ chiếc nón để vẫn thấy bảng điều khiển.
 - Game Kéo co/Đua xe nằm trong một mục Trò chơi.
@@ -21,11 +21,21 @@ Bản V15 là bản gom hoàn chỉnh để triển khai lên GitHub/Vercel.
 
 ## Cập nhật
 1. Upload `index.html`, thư mục `assets/` và `api/` lên GitHub.
-2. Nếu đang dùng `api/sheet.js` cũ hoạt động tốt, có thể giữ file cũ; file V15 đã kèm sẵn proxy tương thích.
-3. Trong Google Sheet > Extensions > Apps Script, thay `Code.gs` bằng bản V15.
+2. Nếu đang dùng `api/sheet.js` cũ hoạt động tốt, có thể giữ file cũ; file V16 đã kèm sẵn proxy tương thích.
+3. Trong Google Sheet > Extensions > Apps Script, thay `Code.gs` bằng bản V16.
 4. Chạy `setup()` một lần nếu chưa từng chạy hoặc muốn kiểm tra cấu trúc Sheet.
 5. Deploy Apps Script bằng `Manage deployments > Edit > New version > Deploy`.
 6. Chờ Vercel deploy, sau đó nhấn `Ctrl + F5`.
 
 ## Lưu ý MathJax
-Trong JSON/Sheet có thể viết `$\frac{3}{4}$`, `\frac{3}{4}`, `$x^2+1$` hoặc `\sqrt{144}`. V15 tự xử lý các trường hợp phổ biến trước khi MathJax render.
+Trong JSON/Sheet có thể viết `$\frac{3}{4}$`, `\frac{3}{4}`, `$x^2+1$` hoặc `\sqrt{144}`. V16 tự xử lý các trường hợp phổ biến trước khi MathJax render.
+
+
+## V16 – bổ sung theo lớp học thực tế
+- Trò chơi có ô **Số câu chơi**: giáo viên chọn số câu muốn dùng trong lượt chơi (không vượt quá số câu đang lọc).
+- Khi đủ số câu, nút chuyển thành **KẾT THÚC & XEM KẾT QUẢ** và công bố đội thắng/hòa.
+- Chữ ở giao diện gọi tên, bảng điều khiển, câu hỏi và đáp án được tăng kích thước để chiếu TV rõ hơn.
+- Bổ sung mục **Học sinh đã gọi trong vòng**: một vòng có thể gọi 3–4 học sinh hoặc nhiều hơn.
+- Mỗi lượt gọi được giữ riêng theo `studentId + callNo`; có thể nhập điểm nhanh ngay trên danh sách vòng hoặc mở **Chi tiết / ghi chú**.
+- Khi chọn lại một lượt gọi cũ trong cùng vòng, điểm được lưu đúng `callNo`, không ghi nhầm sang lần gọi mới nhất.
+- Gói V16 có kèm `assets/tug_left_enhanced.png` và `assets/tug_right_enhanced.png` cho đồ họa kéo co.
